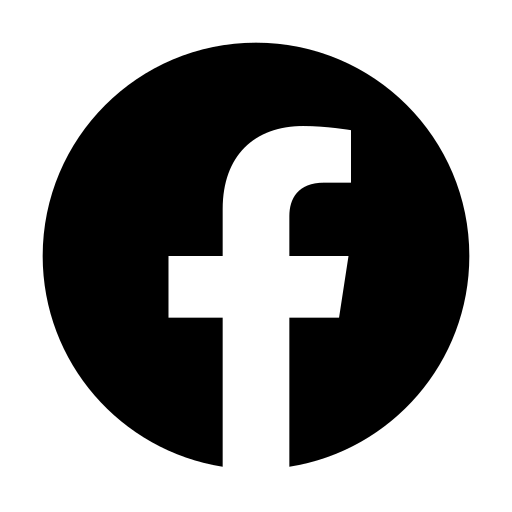
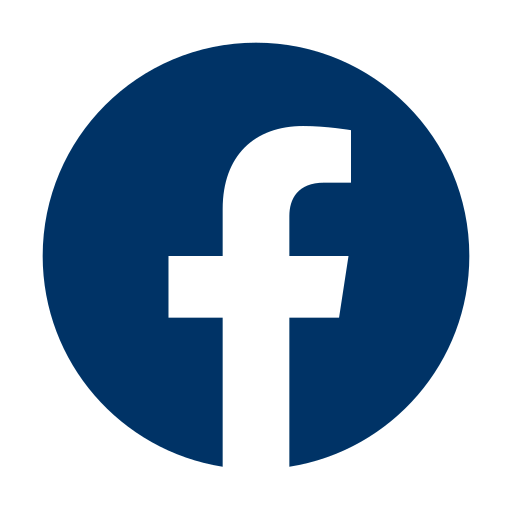
mejora de primer diseño

diff --git a/style.css b/style.css
@@ -1,12 +1,14 @@
 :root{
+    --1000: #000000;
+    --980: #3d3d3d;
     --950: #023864;
     --800: #005191;
     --600: #0078da;
     --400: #25b2ff;
     --200: #b3e2ff;
-    --50: #eff8ff;
+    --100: #ddf0ff;
     --sm: 16px;
-    --md: 20px;
+    --md: 22px;
     --lg: 28px;
 }
 
@@ -26,10 +28,10 @@ body{
         font-size: var(--lg);
     }
     h2{
-        font-size: var(--md);
+        font-size: var(--sm);
     }
     h3{
-        font-size: var(--sm);
+        font-size: var(--md);
     }
 }
 
@@ -59,12 +61,12 @@ nav{
         padding-right: 64px;
         a{
             text-decoration: none;
-            color: var(--950);
+            color: var(--980);
         }
         a:hover{
             padding: 4px;
-            border-radius: 4px;
-            border-bottom: 1px var(--950) solid;
+            /* border-radius: 4px; */
+            border-bottom: 3px var(--950) solid;
         }
     }
     button{
@@ -110,7 +112,7 @@ main{
         align-items: center;
         display: flex;
         justify-content: end;
-        color: var(--950);
+        color: var(--1000);
         background-image: url("Assets/condominio5.jpg");
         background-position: bottom;
         background-attachment: fixed;
@@ -124,22 +126,22 @@ main{
             width: 40%;
             padding-right: 16px;
             h2{
-                color: var(--800);
+                color: var(--980);
             }
             a{
                 text-decoration: none;
-                color: var(--950);
-                padding: 8px;
+                padding: 8px 0;
                 width: 40%;
                 border-radius: 4px;
-                margin: 16px 0 0 64px;
+                margin: 32px 0 0 64px;
                 text-align: center;
-                border: 1px solid;
-            }
-            a:hover{
-                color: var(--50);
+                color: white;
                 background: var(--950);
             }
+            /* a:hover{
+                color: 1000;
+                background: none;
+            } */
         }
         .title{
         }
@@ -154,8 +156,9 @@ main{
         height: 500px;
         justify-content: center;
         row-gap: 64px;
-        color: var(--950);
+        color: var(--1000);
         padding: 0 32px;
+        background-color: white;
         .especialidades{
             display: grid;
             grid-template-columns: repeat(3,1fr);
@@ -168,8 +171,11 @@ main{
                     .icon{
                         width: 8px;
                         height: 8px;
-                        background: var(--200);
+                        background: var(--950);
                     }
+                }
+                p{
+                    color: var(--980);
                 }
             }
         }
@@ -179,8 +185,8 @@ main{
         display: flex;
         align-items: center;
         justify-content: center;
-        background: var(--950);
-        color: white;
+        background: var(--100);
+        color: var(--1000);
         flex-direction: column;
         row-gap: 64px;
         .servicios{
@@ -190,8 +196,8 @@ main{
             padding: 0 32px;
             .card{
                 height: 320px;
-                background: var(--50);
-                color: var(--950);
+                background: var(--100);
+                color: var(--1000);
                 justify-content: center;
                 display: flex;
                 flex-direction: column;
@@ -206,6 +212,7 @@ main{
                 }
                 .service{
                     display: block;
+                    color: var(--980);
                 }
                 .info-service{
                     display: none;
@@ -221,17 +228,18 @@ main{
                 .info-service{
                     display: block;
                     animation: info-service 0.5s linear both;
+                    color: var(--980);
                     a{
                         text-decoration: none;
                         display: block;
-                        color: var(--50);
+                        color: var(--100);
                         text-align: center;
                         background: var(--950);
                         border-radius: 4px;
                         padding: 4px;
                     }
                     a:hover{
-                        background: var(--50);
+                        background: var(--100);
                         color: var(--950);
                         border: 1px solid;
                     }
@@ -250,41 +258,51 @@ main{
         padding: 0 32px;
         justify-content: center;
         column-gap: 64px;
-        color: var(--950);
+        color: var(--1000);
         text-align: justify; 
         .content{
             width: 60%;
             max-height: 80%;
+            p{
+                color: var(--980);
+            }
+            .perfil-mobile{
+                background-color: var(--980);
+                border-radius: 8px;
+                display: none;
+                width: 320px;
+            }
         }
         .perfil{
-            background-color: var(--50);
-            border-radius: 50% 0 50% 50%;
+            background-color: var(--980);
+            border-radius: 8px;
+            width: 320px;
         }
     }
     #Contacto{
         height: 350px;
-        background: var(--950);
+        background: var(--100);
         display: flex;
         align-items: center;
         justify-content: center;
-        color: white;
+        color: var(--1000);
         flex-direction: column;
         padding: 0 32px;
         .imgs{
             display: flex;
-            column-gap: 32px;
+            column-gap: 128px;
             align-items: center;
         }
         .logo-contact{
             height: 48px;
-            filter: invert(100%);
+            /* filter: invert(100%); */
         }
         .rs-row{
             position: relative;
             top: 100px;
             .rs{
                 height: 32px;
-                filter: invert(100%);
+                /* filter: invert(100%); */
             }
         }
         
@@ -298,10 +316,10 @@ footer{
     align-items: center;
     justify-content: center;
     column-gap: 4px;
-    color: var(--950);
+    color: var(--1000);
     a{
         text-decoration: none;
-        color: var(--400);
+        color: var(--950);
     }
 }
 
@@ -375,13 +393,15 @@ footer{
                 padding: 0;
                 text-align: center;
                 a{
-                    margin: 0;
+                    margin: 32px 0 0 0;
                 }
             }
         }
         #Especialidades {
+            row-gap: 8px;
             .especialidades {
                 grid-template-columns: repeat(2,1fr);
+                grid-gap: 16px;
             }
           }
         #Servicios{
@@ -390,12 +410,25 @@ footer{
             .servicios{
                 grid-template-columns: repeat(1,1fr);
                 row-gap: 32px;
+                .card:hover{
+                    transform: none;
+                }
             }
         }
         #Especialista {
+            /* background-image: url(Assets/perfil.png); */
+            height: 100%;
             .content {
-              max-height: 100%;
-              width: 100%;
+                max-height: 100%;
+                width: 100%;
+                align-items: center;
+                display: flex;
+                flex-direction: column;
+                row-gap: 16px;
+                padding: 16px 0;
+                .perfil-mobile{
+                    display: block;
+                }
             }
             .perfil {
                 display: none;

diff --git a/index.html b/index.html
@@ -41,7 +41,7 @@
             </div>
         </section>
         <section id="Especialidades">
-            <h2>NUESTRAS ESPECIALIDADES</h2>
+            <h3>NUESTRAS ESPECIALIDADES</h3>
             <div class="especialidades">
                 <div class="card-especialidades">
                     <div class="box">
@@ -88,7 +88,7 @@
             </div>
         </section>
         <section id="Servicios">
-            <h2>NUESTROS SERVICIOS</h2>
+            <h3>NUESTROS SERVICIOS</h3>
             <div class="servicios">
                 <div class="card">
                     <div class="title-card">
@@ -144,8 +144,9 @@
         </section>
         <section id="Especialista">
             <div class="content">
-                <h2><strong>NUESTRO ESPECIALISTA</strong></h2>
+                <h3><strong>NUESTRO ESPECIALISTA</strong></h3>
                 <br>
+                <img src="Assets/perfil.png" alt="perfil" class="perfil-mobile">
                 <p>Abogado de la Universidad Nacional "Pedro Ruíz Gallo" de Lambayeque con especialización en <em>Bussines Administration</em> en ESAN. Especialista en Derecho registral inmobiliario, régimen de propiedad exclusiva y propiedad común, administración de edificios y condominios y administración de empresas. Actualmente es gerente general de la administradora de inmuebles ViveBien, con operaciones en Lima, Chiclayo, Trujillo y Piura. Se desempeña también como asesor legal de diversas juntas de propietarios a nivel nacional. Ha escrito diversos artículos jurídicos y brindado entrevistas en medios de comunicación nacional, conferencias presenciales y virtuales sobre propiedad horizontal, emprendimiento y gerencia.</p>
                 <br>
                 <span><strong>Claudio Arrelucea</strong> - Fundador</span>
@@ -154,7 +155,7 @@
         </section>
         <section id="Contacto">
             <div class="imgs">
-                <img src="Assets/logo.png" alt="perfil" class="logo-contact">
+                <img src="Assets/Logotipo en formato PNG (16).png" alt="perfil" class="logo-contact">
                 <div class="contact">
                     <span><strong>Dirección: </strong></span><span>Ca. La Plata N°173 - 4to piso, Urb. San Eduardo - Chiclayo, Perú</span><br>
                     <span><strong>Correo: </strong></span><span>conviveleyperu@gmail.com</span><br>
